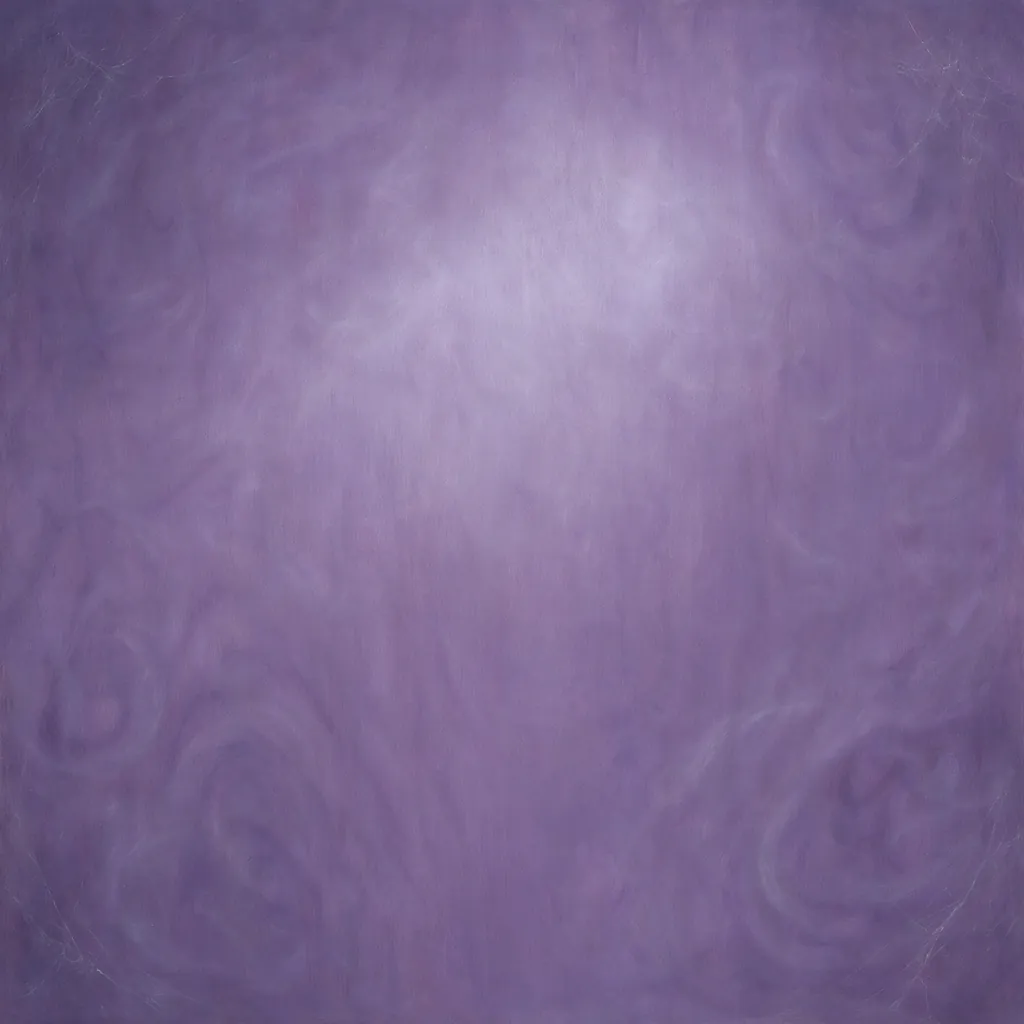
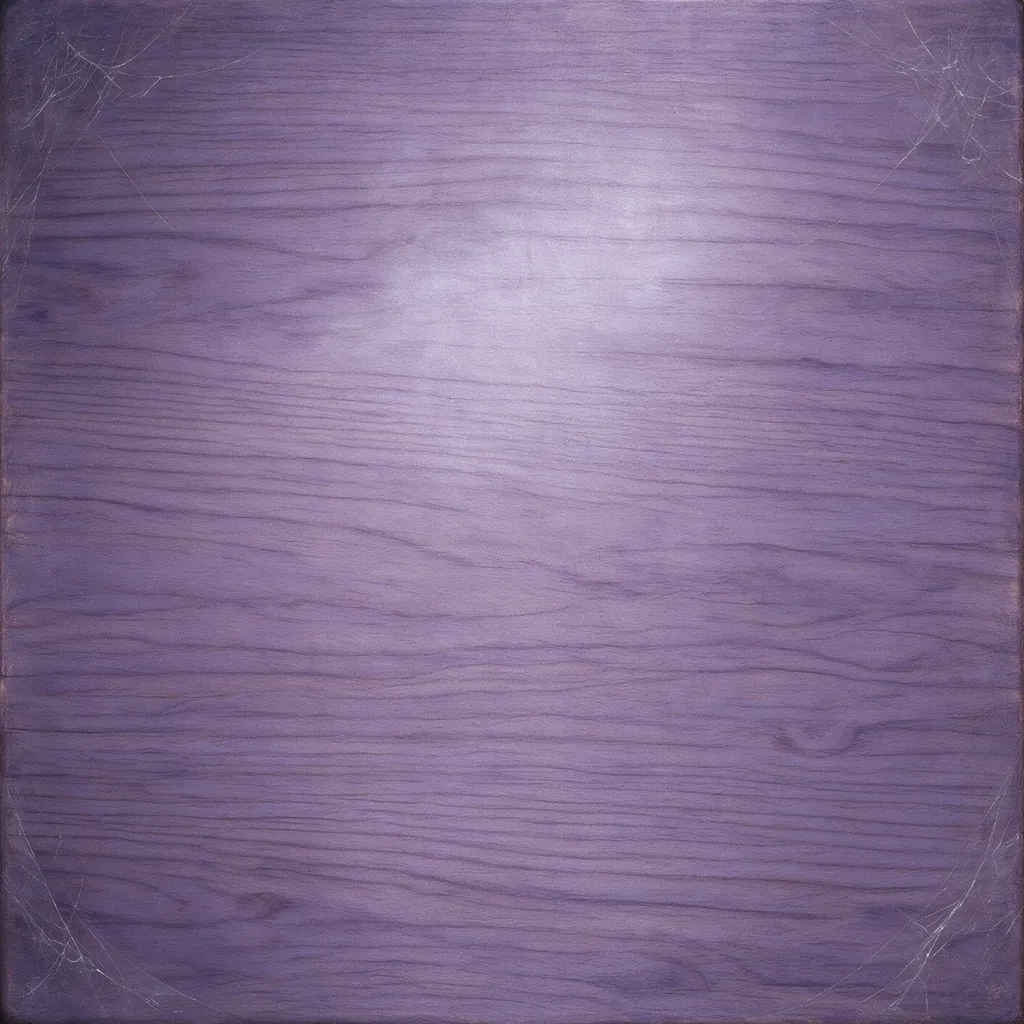
Haunted board: real wood grain (the user: 'I want the haunted one at least to look like wood grain')
An image edit of the painting (the original kept as raw/haunted.orig.webp): a violet-stained wooden slab with long flowing grain and soft knots; the build softens it less (BD_SOFTEN) so the grain shows. tex ?v=2, events.js bumped

Claude-Session: https://claude.ai/code/session_01CG7crrkzqt1vmaeQ7L7w6w

diff --git a/events.js b/events.js
@@ -67,7 +67,7 @@ const Events = (() => {
   // the shops: looks only. board: a board look (BoardTheme), title: by the player's name, hat: on Sun Wukong
   const ITEMS = [
     { id: "board-haunted", ev: "halloween", type: "board", name: "Haunted board", price: 15,
-      board: { id: "haunted", name: "Haunted", wood: ["#8a78a6", "#7d6b99", "#705e8c"], tex: "assets/boards/haunted.webp", line: "#1c1228", label: "#f0e6ff", stone: "rgba(0,0,0,.45)" } },
+      board: { id: "haunted", name: "Haunted", wood: ["#8a78a6", "#7d6b99", "#705e8c"], tex: "assets/boards/haunted.webp?v=2", line: "#1c1228", label: "#f0e6ff", stone: "rgba(0,0,0,.45)" } },
     { id: "stones-candy", ev: "halloween", type: "stones", name: "Candy stones", icon: "🍬", price: 20 },
     { id: "title-pumpkin-king", ev: "halloween", type: "title", name: "Pumpkin King", icon: "🎃", price: 10 },
     { id: "hat-witch", ev: "halloween", type: "hat", name: "Witch hat for Sun Wukong", price: 25 },

diff --git a/index.html b/index.html
@@ -41,7 +41,7 @@
 <script src="tk-cutscene.js?v=90"></script>
 <script src="tk-music.js?v=6"></script>
 <script src="tk-travel.js?v=17"></script>
-<script src="events.js?v=7"></script>
+<script src="events.js?v=8"></script>
 <script src="app.js?v=143"></script>
 <script src="tk-table.js?v=2"></script>
 <script src="wukong.js?v=14"></script>

diff --git a/tools/gen_ui.py b/tools/gen_ui.py
@@ -160,11 +160,14 @@ BD_PAINT = {   # the event boards' surfaces (Events ITEMS board.tex): drawn unde
 }
 
 
+BD_SOFTEN = {"haunted": .15}   # less softening where the grain is the point (the user: 'look like wood grain')
+
+
 def build_boards(save):
     """Each board 1024 square, its detail softened a little so lines and both colours of stone read on it."""
     for n in BD_PAINT:
         im = Image.open(RAW / f"{n}.webp").convert("RGB").resize((1024, 1024), Image.LANCZOS)
-        im = Image.blend(im, im.filter(ImageFilter.GaussianBlur(5)), .45)
+        im = Image.blend(im, im.filter(ImageFilter.GaussianBlur(5)), BD_SOFTEN.get(n, .45))
         im.save(UI / f"{n}.webp", quality=80, method=6)
         save.meta[n] = {"file": f"{n}.webp", "size": [1024, 1024]}
 
